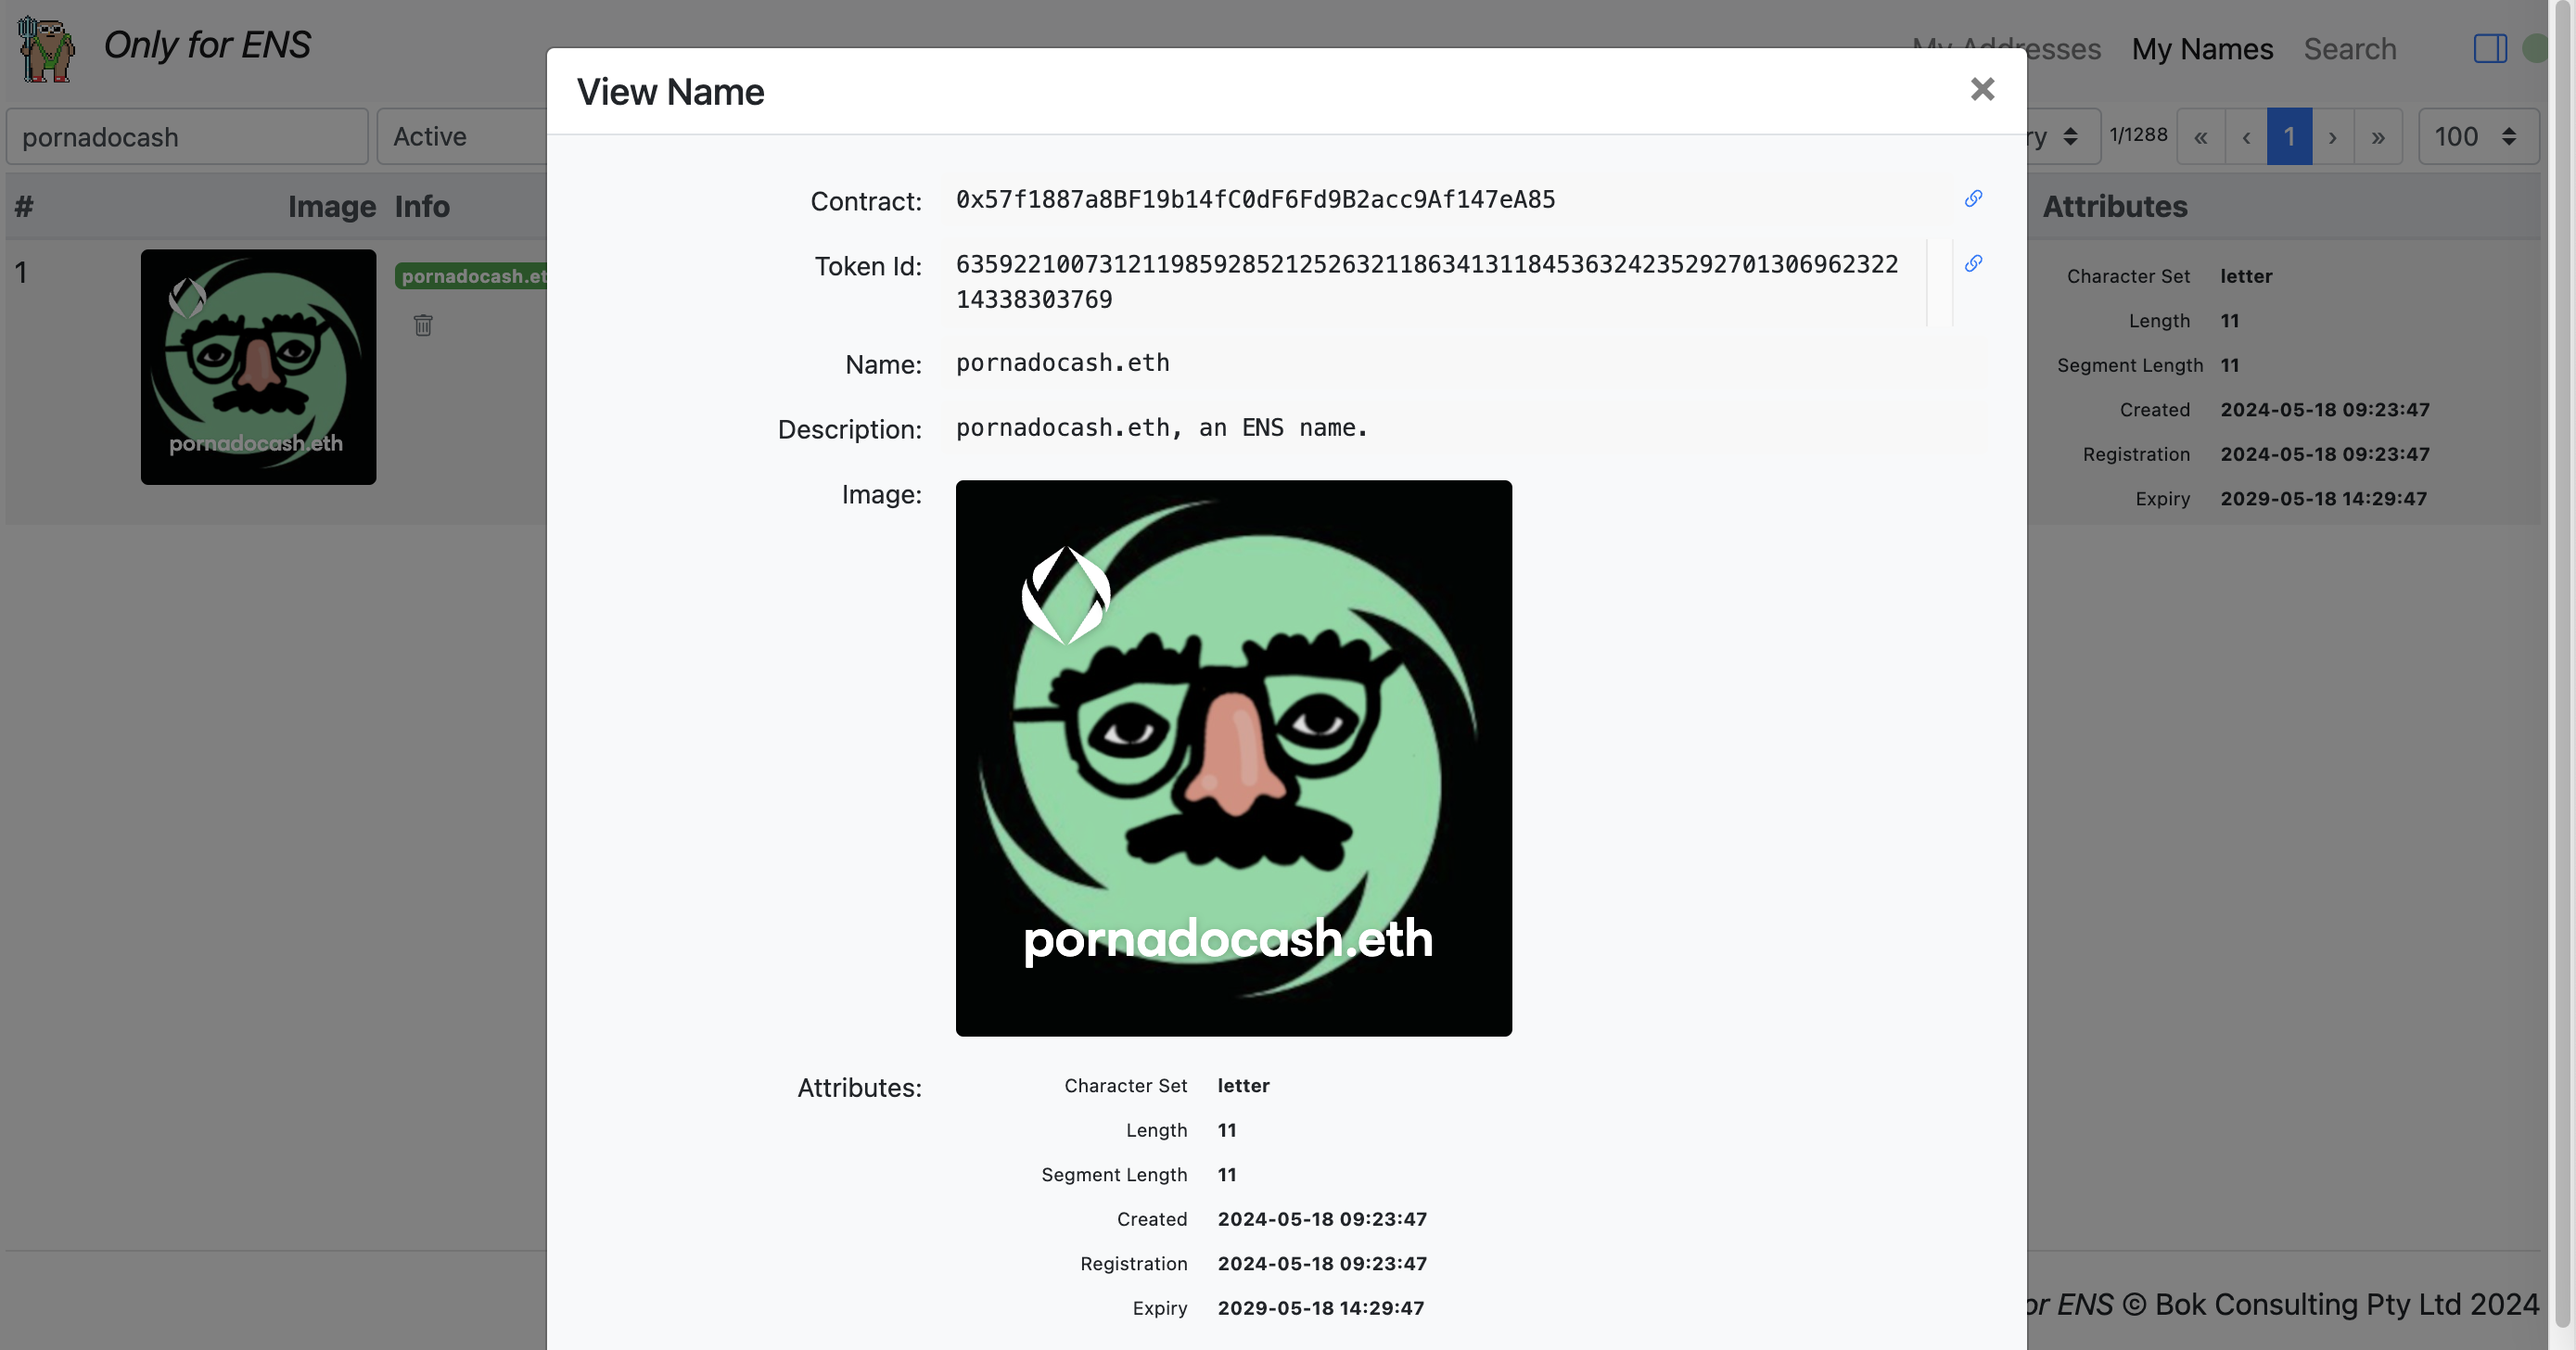
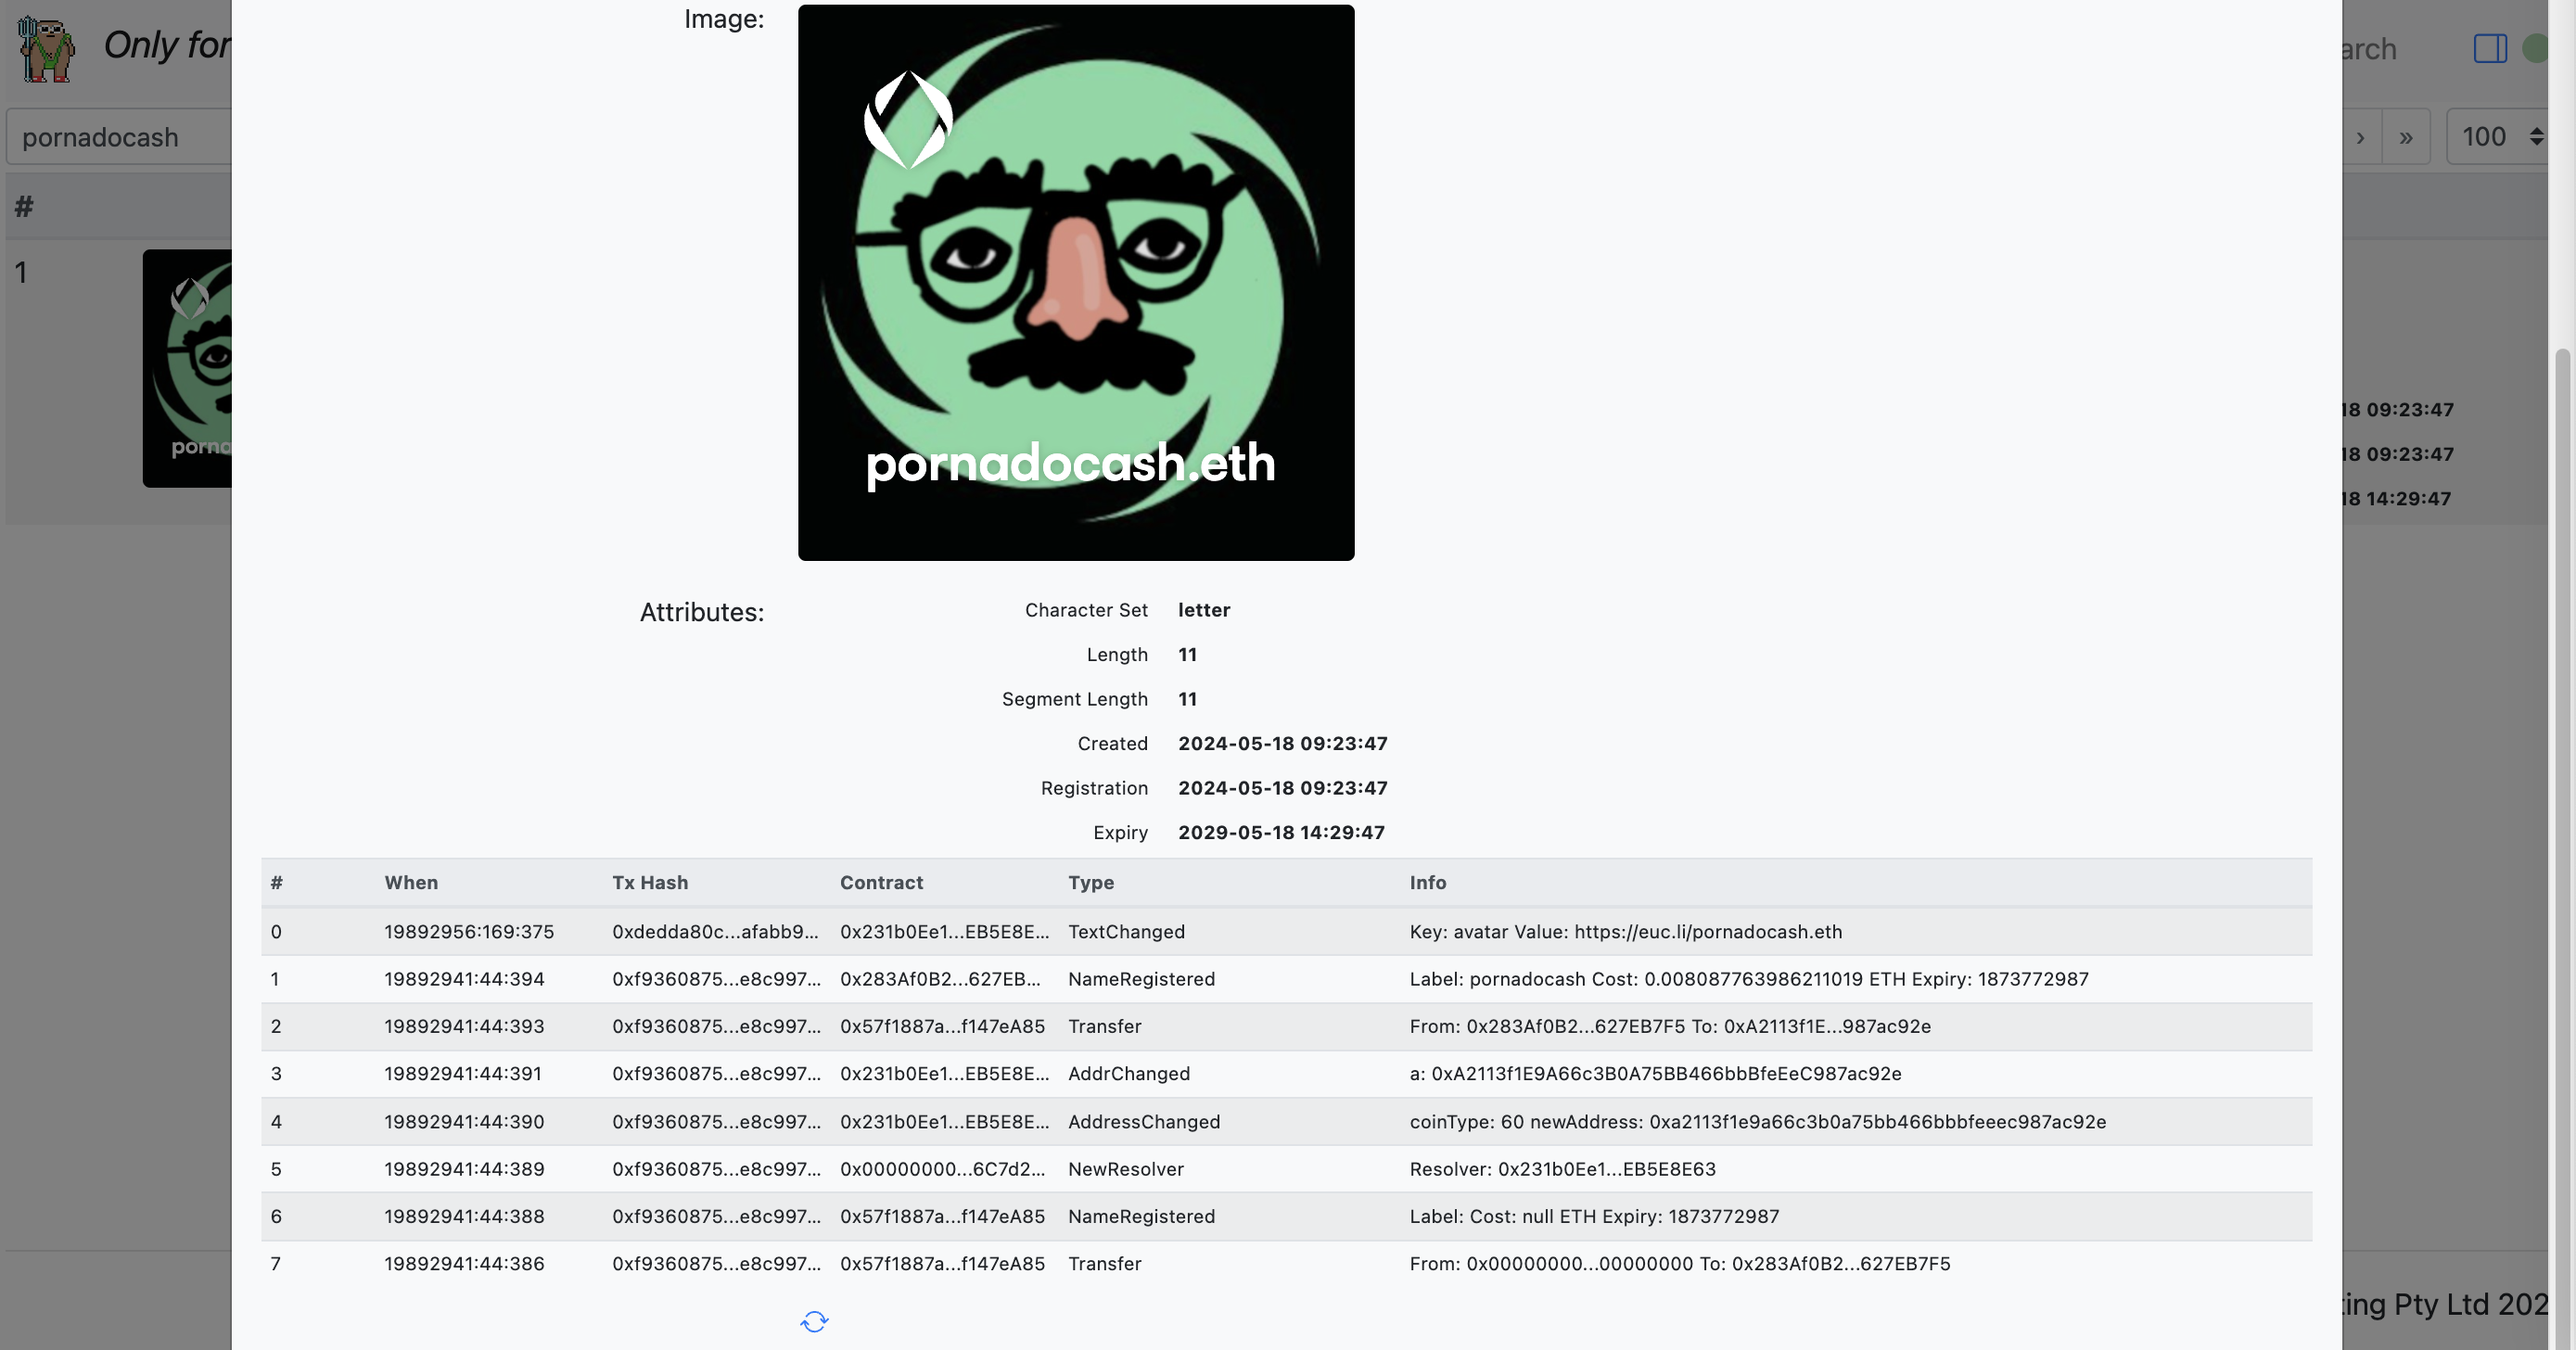
Free Pertsev!

diff --git a/docs/viewName.js b/docs/viewName.js
@@ -1,7 +1,7 @@
 const ViewName = {
   template: `
     <div>
-      <b-modal ref="viewname" v-model="show" hide-footer header-class="m-0 px-3 py-2" body-bg-variant="light" size="lg">
+      <b-modal ref="viewname" v-model="show" hide-footer header-class="m-0 px-3 py-2" body-bg-variant="light" size="xl">
         <template #modal-title>View Name</template>
 
         <b-form-group label="Contract:" label-for="token-contract" label-size="sm" label-cols-sm="3" label-align-sm="right" class="mx-0 my-1 p-0">
@@ -49,18 +49,58 @@ const ViewName = {
 
         </b-form-group>
 
-        <font size="-2">
-          <pre>
-{{ filteredSortedItems }}
-          </pre>
-        </font>
-
         <b-form-group label="Attributes:" label-for="token-image" label-size="sm" label-cols-sm="3" label-align-sm="right" class="mx-0 my-1 p-0">
           <b-row v-for="(attribute, i) in attributes"  v-bind:key="i" class="m-0 p-0">
             <b-col cols="3" class="m-0 px-2 text-right"><font size="-3">{{ attribute.trait_type }}</font></b-col>
             <b-col cols="9" class="m-0 px-2"><b><font size="-2">{{ ["Created", "Registration", "Expiry"].includes(attribute.trait_type) ? formatTimestamp(attribute.value) : attribute.value }}</font></b></b-col>
           </b-row>
         </b-form-group>
+
+        <font size="-2">
+          <b-table small fixed striped responsive hover :fields="eventFields" :items="filteredSortedItems" show-empty head-variant="light" class="m-0 mt-1">
+            <template #cell(number)="data">
+              {{ parseInt(data.index) }}
+            </template>
+            <template #cell(when)="data">
+              {{ data.item.blockNumber + ':' + data.item.txIndex + ':' + data.item.logIndex }}
+            </template>
+            <template #cell(txHash)="data">
+              {{ data.item.txHash.substring(0, 10) + '...' + data.item.txHash.slice(-8) }}
+            </template>
+            <template #cell(contract)="data">
+              {{ data.item.contract.substring(0, 10) + '...' + data.item.contract.slice(-8) }}
+            </template>
+            <template #cell(info)="data">
+              <span v-if="data.item.type == 'Transfer'">
+                From: {{ data.item.from.substring(0, 10) + '...' + data.item.from.slice(-8) }} To: {{ data.item.to.substring(0, 10) + '...' + data.item.to.slice(-8) }}
+              </span>
+              <span v-else-if="data.item.type == 'NewOwner'">
+                Owner: {{ data.item.owner.substring(0, 10) + '...' + data.item.owner.slice(-8) }}
+              </span>
+              <span v-else-if="data.item.type == 'NewResolver'">
+                Resolver: {{ data.item.resolver.substring(0, 10) + '...' + data.item.resolver.slice(-8) }}
+              </span>
+              <span v-else-if="data.item.type == 'NameRegistered'">
+                Label: {{ data.item.label }} Cost: {{ formatETH(data.item.cost) + ' ETH' }} Expiry: {{ data.item.expires }}
+              </span>
+              <span v-else-if="data.item.type == 'NameRenewed'">
+                Label: {{ data.item.label }} Cost: {{ formatETH(data.item.cost) + ' ETH' }} Expiry: {{ data.item.expiry }}
+              </span>
+              <span v-else-if="data.item.type == 'TextChanged'">
+                Key: {{ data.item.key }} Value: {{ data.item.value }}
+              </span>
+              <span v-else-if="data.item.type == 'AddrChanged'">
+                a: {{ data.item.a }}
+              </span>
+              <span v-else-if="data.item.type == 'AddressChanged'">
+                coinType: {{ data.item.coinType }} newAddress: {{ data.item.newAddress }}
+              </span>
+              <span v-else>
+                {{ data.item }}
+              </span>
+            </template>
+          </b-table>
+        </font>
 
         <b-form-group label="" label-for="token-refreshtokenmetadata" label-size="sm" label-cols-sm="3" label-align-sm="right" class="mx-0 my-1 p-0">
           <b-button size="sm" @click="refreshTokenMetadata();" variant="link" v-b-popover.hover.top="'Refresh Token Metadata'"><b-icon-arrow-repeat shift-v="+1" font-scale="1.1" variant="primary"></b-icon-arrow-repeat></b-button>
@@ -81,6 +121,14 @@ const ViewName = {
         "stealthAddress": { variant: "dark", name: "My Stealth Address" },
         "stealthMetaAddress": { variant: "success", name: "My Stealth Meta-Address" },
       },
+      eventFields: [
+        { key: 'number', label: '#', sortable: false, thStyle: 'width: 5%;', tdClass: 'text-truncate' },
+        { key: 'when', label: 'When', sortable: false, thStyle: 'width: 10%;', tdClass: 'text-truncate' },
+        { key: 'txHash', label: 'Tx Hash', sortable: false, thStyle: 'width: 10%;', tdClass: 'text-truncate' },
+        { key: 'contract', label: 'Contract', sortable: false, thStyle: 'width: 10%;', tdClass: 'text-truncate' },
+        { key: 'type', label: 'Type', sortable: false, thStyle: 'width: 15%;', tdClass: 'text-truncate' },
+        { key: 'info', label: 'Info', sortable: false, thStyle: 'width: 40%;' /*, tdClass: 'text-truncate' */ },
+      ],
     }
   },
   computed: {
@@ -108,9 +156,9 @@ const ViewName = {
     events() {
       return store.getters['viewName/events'];
     },
-    tokens() {
-      return store.getters['data/tokens'];
-    },
+    // tokens() {
+    //   return store.getters['data/tokens'];
+    // },
     prices() {
       return store.getters['data/prices'];
     },
